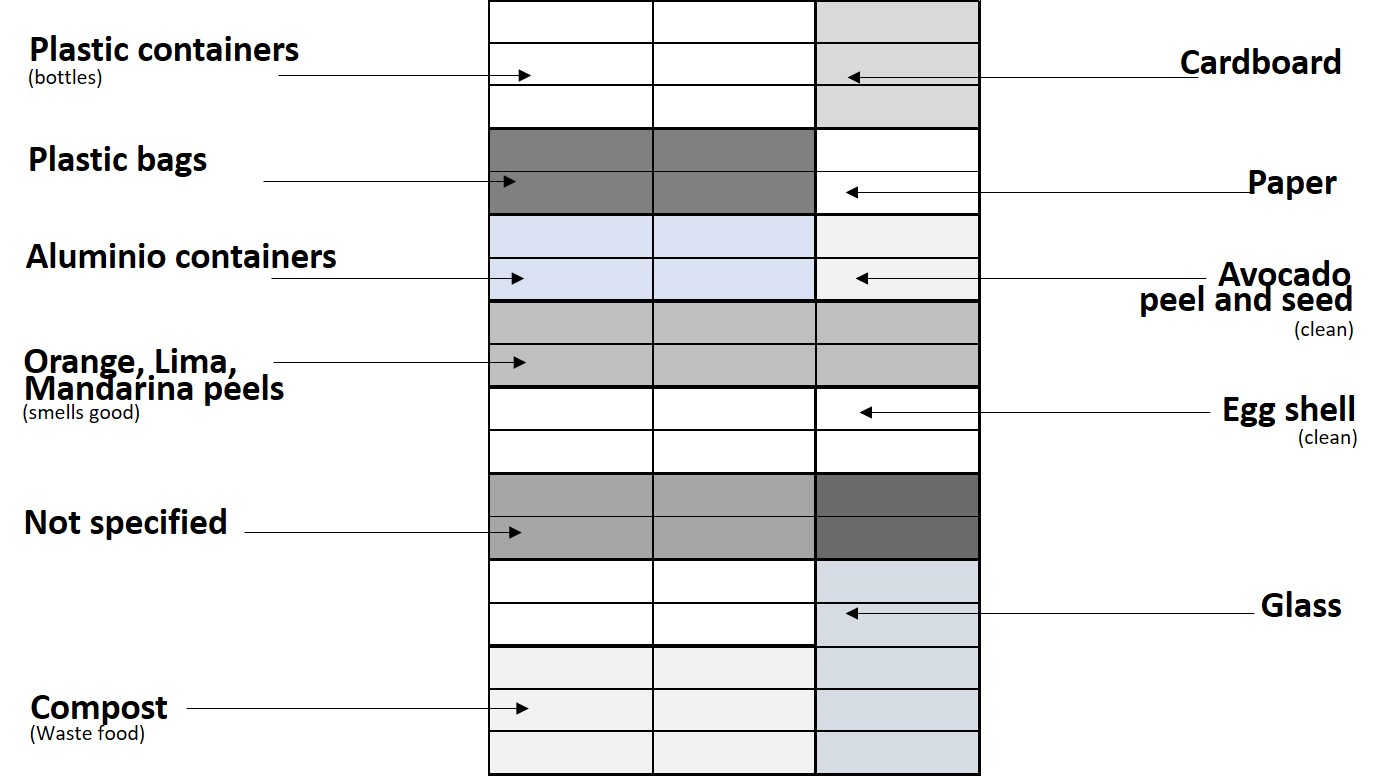
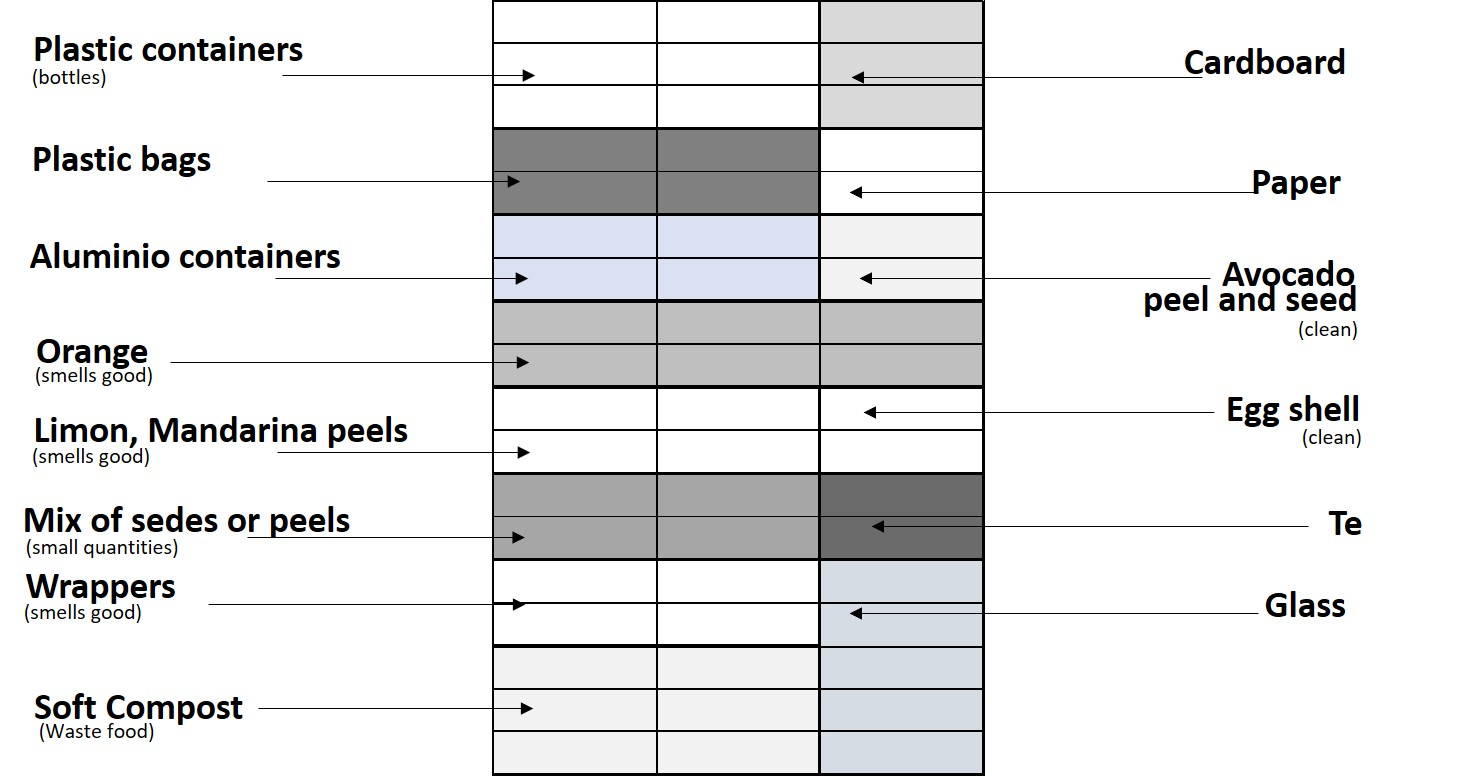
333

diff --git a/DS/2PP.html b/DS/2PP.html
@@ -1,0 +1,200 @@
+<!DOCTYPE html>
+<html>
+  <head>
+    <meta charset="utf-8">
+         <title>FIORELLA JARAMILLO - MDEF</title>
+
+         <link rel="shortcut icon" type="image/x-icon" href= "3.ico"/>
+         <link rel="shortcut icon" type="image/vnd.microsoft.icon" href= "3.ico"/>
+
+         <link rel="stylesheet" href="fiore.css"/>
+  </head>
+  
+<body>
+  <header class="cabecerafija">
+    <div class="container logo-nav-container">
+          <a href="#" class="logo">:)</a>
+          <nav class="navigation">  
+              <ul>
+                 <li><a href="https://fiorella-jaramillo.github.io/123/">Inicio</a></li>
+                 <li><a href="https://fiorella-jaramillo.github.io/123/INDEX2.html">Design Studio</a></li>
+                  <li><a href="https://fiorella-jaramillo.github.io/123/INDEX3.html">FAB</a></li>
+                  <li><a href="https://fiorella-jaramillo.github.io/123/INDEX4.html">Remixing</a></li>
+                  <li><a href="https://fiorella-jaramillo.github.io/123/INDEX5.html">Seminars</a></li>
+                  <li><a href="https://fiorella-jaramillo.github.io/123/INDEX6.html">X</a></li>
+              </ul>
+          </nav>
+    </div>
+</header>
+<h1 style="line-height: 69px;">1PP DESIGN INTERVENTION<br/> IN CONTEXT</h1>
+
+</div>
+
+<div class="cuerpitocentral">
+
+ <h2>1ST INTERVENTION OF TERM 2</h2>
+
+<p>After the first term, I decided to start a new path for interventions, <b> waste </b> in general. And continue in parallel with the path that emerged in the last term, the <b>holistic </b> one.
+</p>
+<p>I don´t know if they will merge in somepoint or they just complement eachother, but the meaning and bifurcation of the materials
+in physics (measurements) and subjective (senses) are relevant to me so show in experiences colored by that. Developing situations to
+ think, to question, to observe, to play with, and so on; through the presumption of the spiritual and magic. 
+
+</p>
+
+ <p style="background-color: rgb(129, 185, 207); padding:10px;"><B> INTERVENTION 1: A WASTE DOMESTIC-CONTAINER</B></pstyle>
+ <p style="color: rgb(129, 185, 207);"> <b>ME AS A DESIGN TOOL IN CONTEXT</b></pstyle>
+  
+
+  <P>
+      °°°°°°°°°°°°°°°°°°°°°°Recycling Lifestyle°°°°°°°°°°°°°°°°°°°°°°°°°°°°°°°°°°°°°°°°<br/>
+      °°°°°°°°°°°°°°°°°°°°°°As a designer, I could see the potential of new materials°°°°°°°°°°°°°°°°°°°°<br/>
+      °°°°°°°°°°°°°°°°°°°°°°Document everything with the methods learned and practiced°°°°°°°°°°°°
+      <hr class="dotted">
+      <hr class="dotted">      
+
+ <p style="color: rgb(129, 185, 207);"> <b>CONTEXT</b></pstyle> 
+    <p>
+      I have been segregating some of my food peels, during the last term to see what could I do next, without see it as an opportunity to document it. When we were ask to bring some to one of the seminars they worked perfectly, they were a lot, they were desidratated and free of bacterias. <br/>
+      So I restarted again, and, in some point of the last weeks I saw a bunch of <b> carboard boxes</b> with segregated materials in my bedroom, then I thought that maybe, all of them might need their own organized space in the flat.<br/>
+    </p> <p>
+    The question was <i>what can I do with them?; how much can I still contain in my room?; what if my roommates join?; what if my building join?. what if my block join?</i>
+    </p>
+    <p>In addition, the biomaterials seminars was running and many cool option appeared, and also, projects like "Remix El Barrio" that can offer many options and opportunities in this topic still having problems of how to sustaine theirself economicaly, as they said.</p>
+   <p>
+  In that case, how can I join somehow to that community?, what If I offer the waste I collect?, how many of the collected is required to  have options of develop "something"?. Because, what I have realized is that what "we" are looking for comercial stores because they already have the same of one product-waste in the same container or bag. Few of them segregate, and also, it is kind of hard because it require time and some requirements. Not to mencionate that it has to be daily, because they occupy space, and probably they smell weird if it is not; unless we find a solution that suits them.
+  </p>
+ 
+  <img width=100% src="1PP/0.jpg"/>
+
+  <p style="color: rgb(129, 185, 207);"> <b>WHAT DO I WASTE (MORE)?</b></pstyle><br/>
+
+    <p>
+      This photos are from food waste. I don´t usually recycle non-biomaterials waste because they require more space. In addition, I collect the seeds of the food to reproduced them in the next season.
+      </p>
+      <p>As a part of the last term experimentation, I tried worms compost to improve my abilities of recirculation processes; and also, because I wanted to generate electricity with them, but they died. Apparently, they were changed in their environment many times that they freeze, also, I bought them too soon. One of the reasons to not survive is the food I gave them, they weren't enough decompose. </p>
+
+    <img width=100% src="1PP/1.jpg"/>
+    <img width=100% src="1PP/2.jpg"/>
+    <img width=100% src="1PP/3.jpg"/>
+
+  <p style="color: rgb(129, 185, 207);"> <b>WHAT IS THE PLAN?</b></pstyle>
+    <p>The plan is to develop a <b>WASTE CONTAINTER</b> in my flat which it is going to be separated by types in the way I was doing it, with the option of mutate
+    acording it is been used.</p>
+
+    <p>Made in cardboard in the begining to test it, then I think it could be interesting to develop it with the materials I collect.</p>
+
+    <p>Requirements depends on the type of collected material.<BR/>
+      They will appear according the use, but the things I have already detected are:<BR/>
+    </p>
+    <p>Initial ideas....<BR/><BR/>
+    
+             1. Porous material, like cardboard or clay. Or, other material like plastic or acrilic but with holes.<BR/>
+             2. Ventilation, the air has to get IN and OUT of the container.<BR/>
+             3. Protection, some of the materials require to be close because they are more vulnerable to bacterias.<BR/>
+             4. Divided by size of the waste, and quantity of use.<BR/>
+             5. Be aware that some of the materials dripping liquids.<BR/>
+             6. Most of them has to be clean.<BR/>
+             7. The smallest possible to be accepted in the flat.<BR/>
+             8. Some of the peels like oranges smell good, try to put in a specific spot.<BR/>
+             9. Have in mind the continuity of use of each material waste.<BR/>
+             10.Find where to put them once they space of the waste containter is full. Who is experimenting and working with
+             these materials. <BR/>
+             11. <b> Most importat: select what materials I can collect. </b>
+            </p>
+     <p>Test it.</p>
+
+ <p style="color: rgb(129, 185, 207);"> <b>THE INTERVENTION</b></pstyle>
+  <p> <b> SPOT 1: IN THE FLAT</b></p>
+  <p>
+    Once the container is installed; as a daily routine: the <b>WASTE CONTAINTER</b> must to be checked and fill the documentation paper check.<BR/>
+    The idea of the intervention is to visualize the opportunity of the material to reincarnated in objects for design or art. And generate and engagement with the 
+    people that contribute to collect.
+      </p>
+
+      <p><b>  Distribution an selected waste</b></p>
+  <img width=100% src="1PP/4.jpg"/><BR/>
+
+  <p style="color: rgb(129, 185, 207);"> <b>SELECTED MATERIALS</b></pstyle> 
+    <img width=100% src="1PP/6.png"/>
+    <img width=100% src="1PP/7.png"/><BR/>
+    <p style="color: rgb(129, 185, 207);"> <b>FIRST MODEL</b></pstyle> 
+    <img width=100% src="1PP/8.png"/><BR/>
+
+  <p style="color: rgb(129, 185, 207);"> <b>DOCUMENTATION</b></pstyle> <BR/>
+    <img width=100% src="1PP/5.jpg"/><BR/>
+
+
+
+  <p><b>SPOT 2: MDEF CLASSROMM</b></p>
+
+  <P>After the speech of the Firt Intervention, <a href="https://julia-steketee.github.io/MDEF-Website-Repository"> Julia </a> and 
+    <a href="https://philippa-formosa.github.io/mdefweb">Phippa</a> appeared as a <i> waste-group-of-collectors</i> for the 
+   fab challenge and the WASTE-CONTAINER was install in the classroom, and also we have the idea to create a web for the community of 
+   waste in barcelona.
+
+   <p><b>  Distribution an selected waste</b></p>
+   <img width=100% src="1PP/0000.png"/><BR/>
+
+   <P><b>Website</b></P>
+   <pre>
+         + List of materials we collect.
+         + Each material might have:
+             - Recipes or link.
+             - Fisical or chemical properties or link.
+             - Holistic references or link.
+             - References or projects.
+             - Links to articles.
+             - Amount in weight and where is it. 
+         + Possibility of bartering.
+         + All members in the community are able to post.
+         
+   </pre>
+
+   <a href="https://fiorella-jaramillo.github.io/mLIBRARY/">
+    <img width=100% src="1PP/000.png"/>
+  </a> 
+  <BR/><BR/><BR/>
+
+  <p style="color: rgb(129, 185, 207);"> <b>RESULTS</b></pstyle>
+
+<P>still in working progress</P>
+
+  
+
+  <p style="background-color: rgb(118, 80, 180); padding:10px;"><B>INTERVENTION 2: SMELLY FRUITS</B></pstyle>
+  <p style="color: rgb(118, 80, 180);"> <b>ME AS A DESIGN TOOL IN CONTEXT</b></pstyle>
+     
+   
+     <P>
+         °°°°°°°°°°°°°°°°°°°°°°Love to play°°°°°°°°°°°°°°°°°°°°°°°°°°°°°°°°°°°°°°°°°°°°°°°°°°°°°°°°<br/>
+         °°°°°°°°°°°°°°°°°°°°°°Channeling of Akashic Records°°°°°°°°°°°°°°°°°°°°°°°<br/>
+         °°°°°°°°°°°°°°°°°°°°°°Document everything with the methods learned and practiced°°°°°°°°°°°°°°°°°
+         <hr class="dotted">
+         <hr class="dotted">      
+   
+    <p style="color: rgb(118, 80, 180);"> <b>CONTEXT</b></pstyle>     
+   
+    <p style="color: rgb(118, 80, 180);"> <b>WHAT IS THE PLAN?</b></pstyle>
+
+      <p style="color: rgb(118, 80, 180);"> <b>THE INTERVENTION</b></pstyle>
+   
+    <p style="color: rgb(118, 80, 180);"> <b>DOCUMENTATION</b></pstyle> 
+    
+  
+
+
+      
+
+
+</div>
+        </div></div>
+    			<FOOTer>
+          <center>
+          <a href=meta.html><button class="btn">°</button></a>  
+          <a href=1PP.html><button class="btn">NEXT</button></a>   
+          </center>
+        </FOOTer>
+  </body>
+</html>
+||

diff --git a/DS/1PP.html b/DS/1PP.html
@@ -33,7 +33,16 @@
 <div class="cuerpitocentral">
 
  <h2>1ST INTERVENTION OF TERM 2</h2>
- <p style="background-color: rgb(129, 185, 207); padding:10px;"><B>A WASTE DOMESTIC-CONTAINER</B></pstyle>
+
+<p>After the first term, I decided to start a new path for interventions, <b> waste </b> in general. And continue in parallel with the path that emerged in the last term, the <b>holistic </b> one.
+</p>
+<p>I don´t know if they will merge in somepoint or they just complement eachother, but the meaning and bifurcation of the materials
+in physics (measurements) and subjective (senses) are relevant to me so show in experiences colored by that. Developing situations to
+ think, to question, to observe, to play with, and so on; through the presumption of the spiritual and magic. 
+
+</p>
+
+ <p style="background-color: rgb(129, 185, 207); padding:10px;"><B> INTERVENTION 1: A WASTE DOMESTIC-CONTAINER</B></pstyle>
  <p style="color: rgb(129, 185, 207);"> <b>ME AS A DESIGN TOOL IN CONTEXT</b></pstyle>
   
 
@@ -103,12 +112,19 @@
     people that contribute to collect.
       </p>
 
-  <p>As a part of the intervention, I propose to design and object to each of the collectors.</p>
-
+      <p><b>  Distribution an selected waste</b></p>
   <img width=100% src="1PP/4.jpg"/><BR/>
 
-  <p style="color: rgb(129, 185, 207);"> <b>DOCUMENTATION</b></pstyle> 
+  <p style="color: rgb(129, 185, 207);"> <b>SELECTED MATERIALS</b></pstyle> 
+    <img width=100% src="1PP/6.png"/>
+    <img width=100% src="1PP/7.png"/><BR/>
+    <p style="color: rgb(129, 185, 207);"> <b>FIRST MODEL</b></pstyle> 
+    <img width=100% src="1PP/8.png"/><BR/>
+
+  <p style="color: rgb(129, 185, 207);"> <b>DOCUMENTATION</b></pstyle> <BR/>
     <img width=100% src="1PP/5.jpg"/><BR/>
+
+
 
   <p><b>SPOT 2: MDEF CLASSROMM</b></p>
 
@@ -117,7 +133,8 @@
    fab challenge and the WASTE-CONTAINER was install in the classroom, and also we have the idea to create a web for the community of 
    waste in barcelona.
 
-
+   <p><b>  Distribution an selected waste</b></p>
+   <img width=100% src="1PP/0000.png"/><BR/>
 
    <P><b>Website</b></P>
    <pre>
@@ -139,10 +156,13 @@
   </a> 
   <BR/><BR/><BR/>
 
-<p style="color: rgb(129, 185, 207);"> <b>SHOWING POSSIBILITIES OF YOUR WASTE</b></pstyle> 
-  <BR/><BR/>
+  <p style="color: rgb(129, 185, 207);"> <b>RESULTS</b></pstyle>
 
-  <p style="background-color: rgb(118, 80, 180); padding:10px;"><B>WHERE IS THE METAVERSE NOW</B></pstyle>
+<P>still in working progress</P>
+
+  
+
+  <p style="background-color: rgb(118, 80, 180); padding:10px;"><B>INTERVENTION 2: SMELLY FRUITS</B></pstyle>
   <p style="color: rgb(118, 80, 180);"> <b>ME AS A DESIGN TOOL IN CONTEXT</b></pstyle>
      
    
@@ -159,6 +179,8 @@
 
       <p style="color: rgb(118, 80, 180);"> <b>THE INTERVENTION</b></pstyle>
    
+        <img width=100% src="1PP/fruits.gif"/>
+
     <p style="color: rgb(118, 80, 180);"> <b>DOCUMENTATION</b></pstyle> 
     
   
